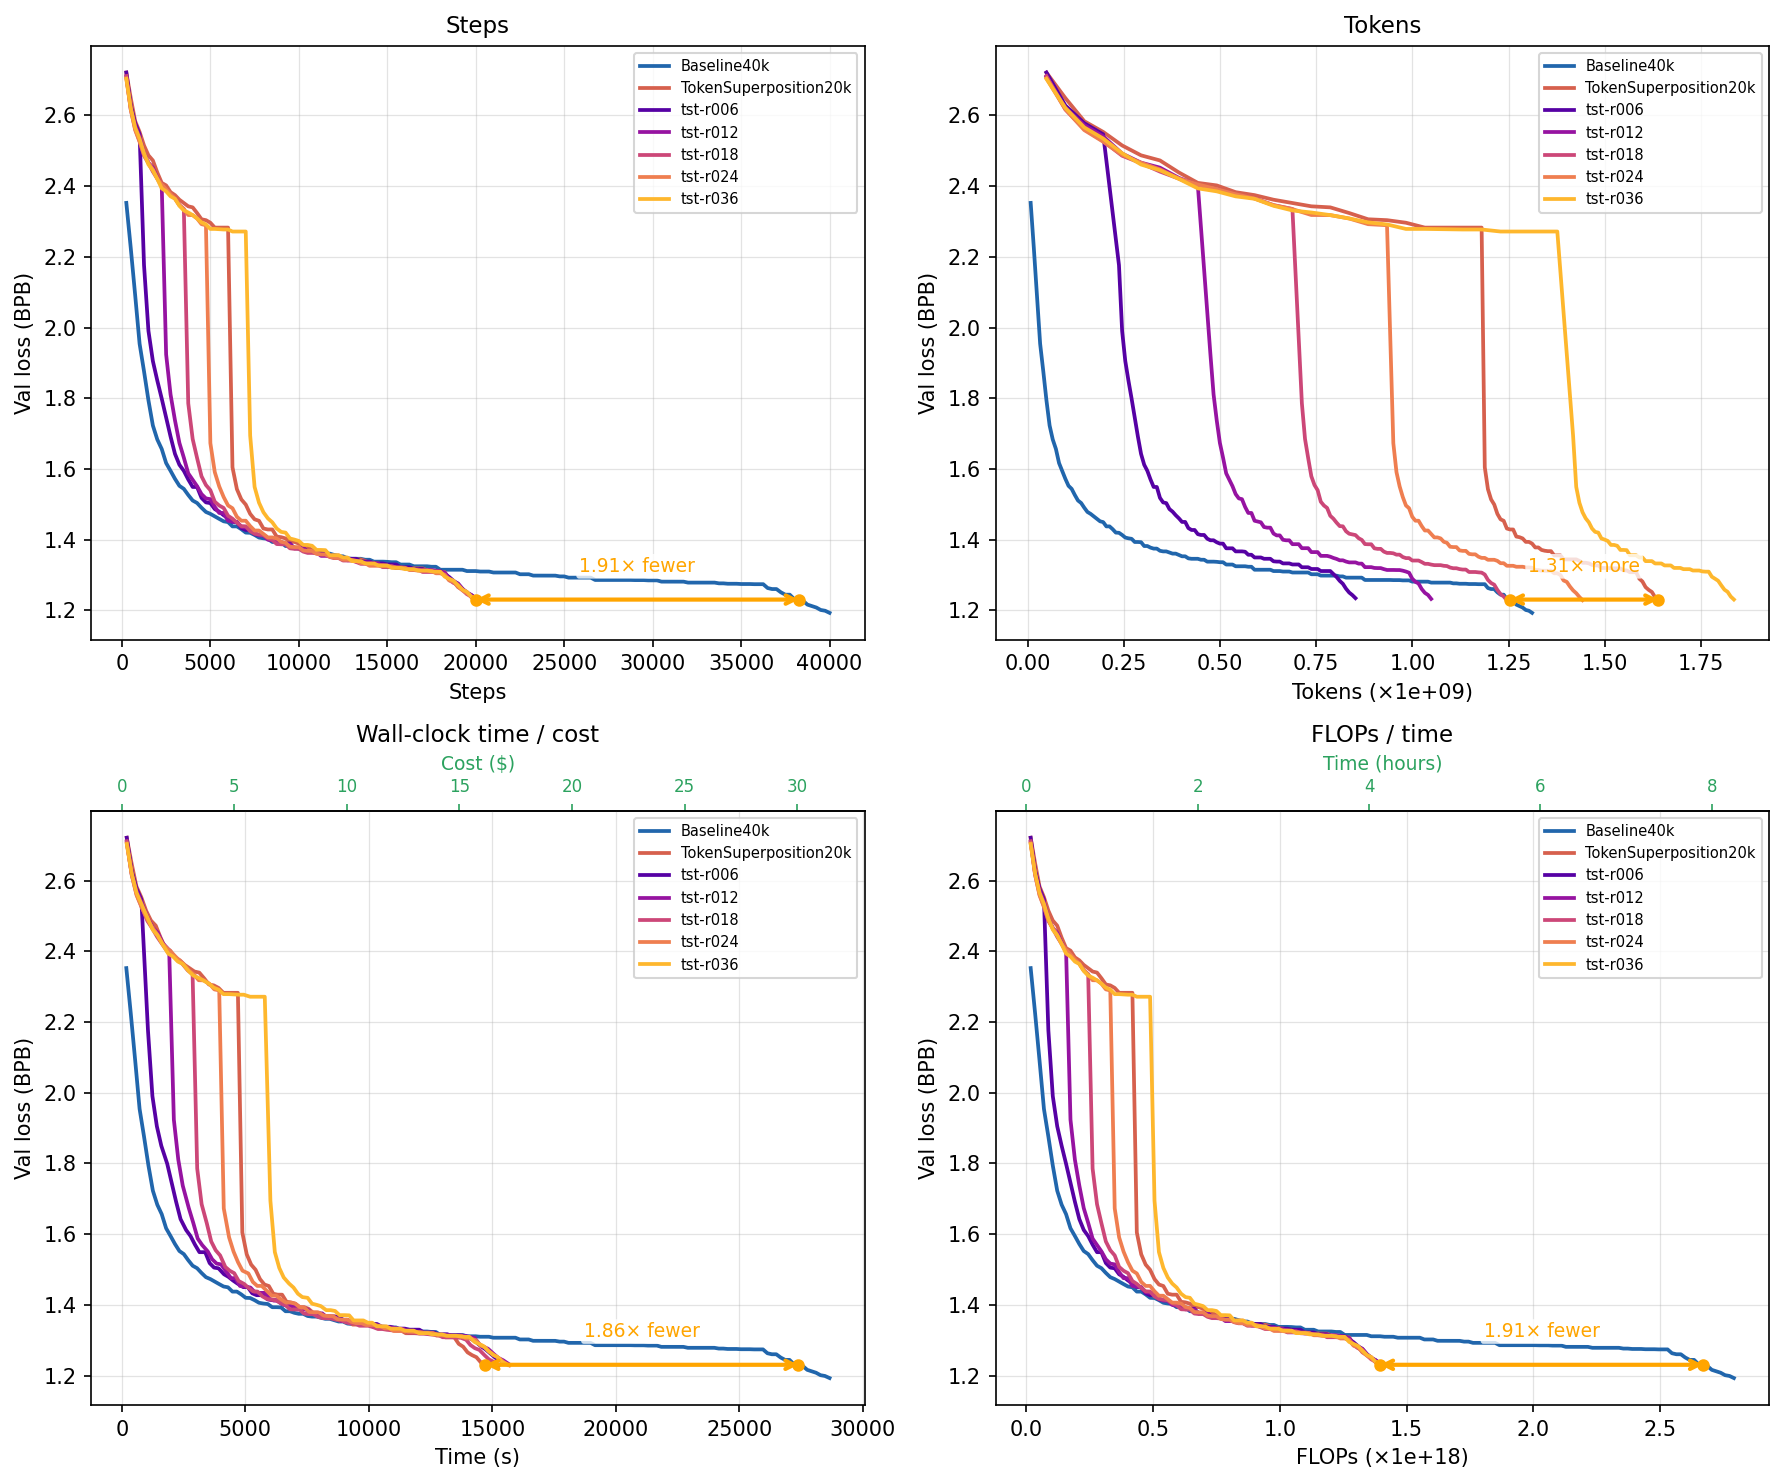
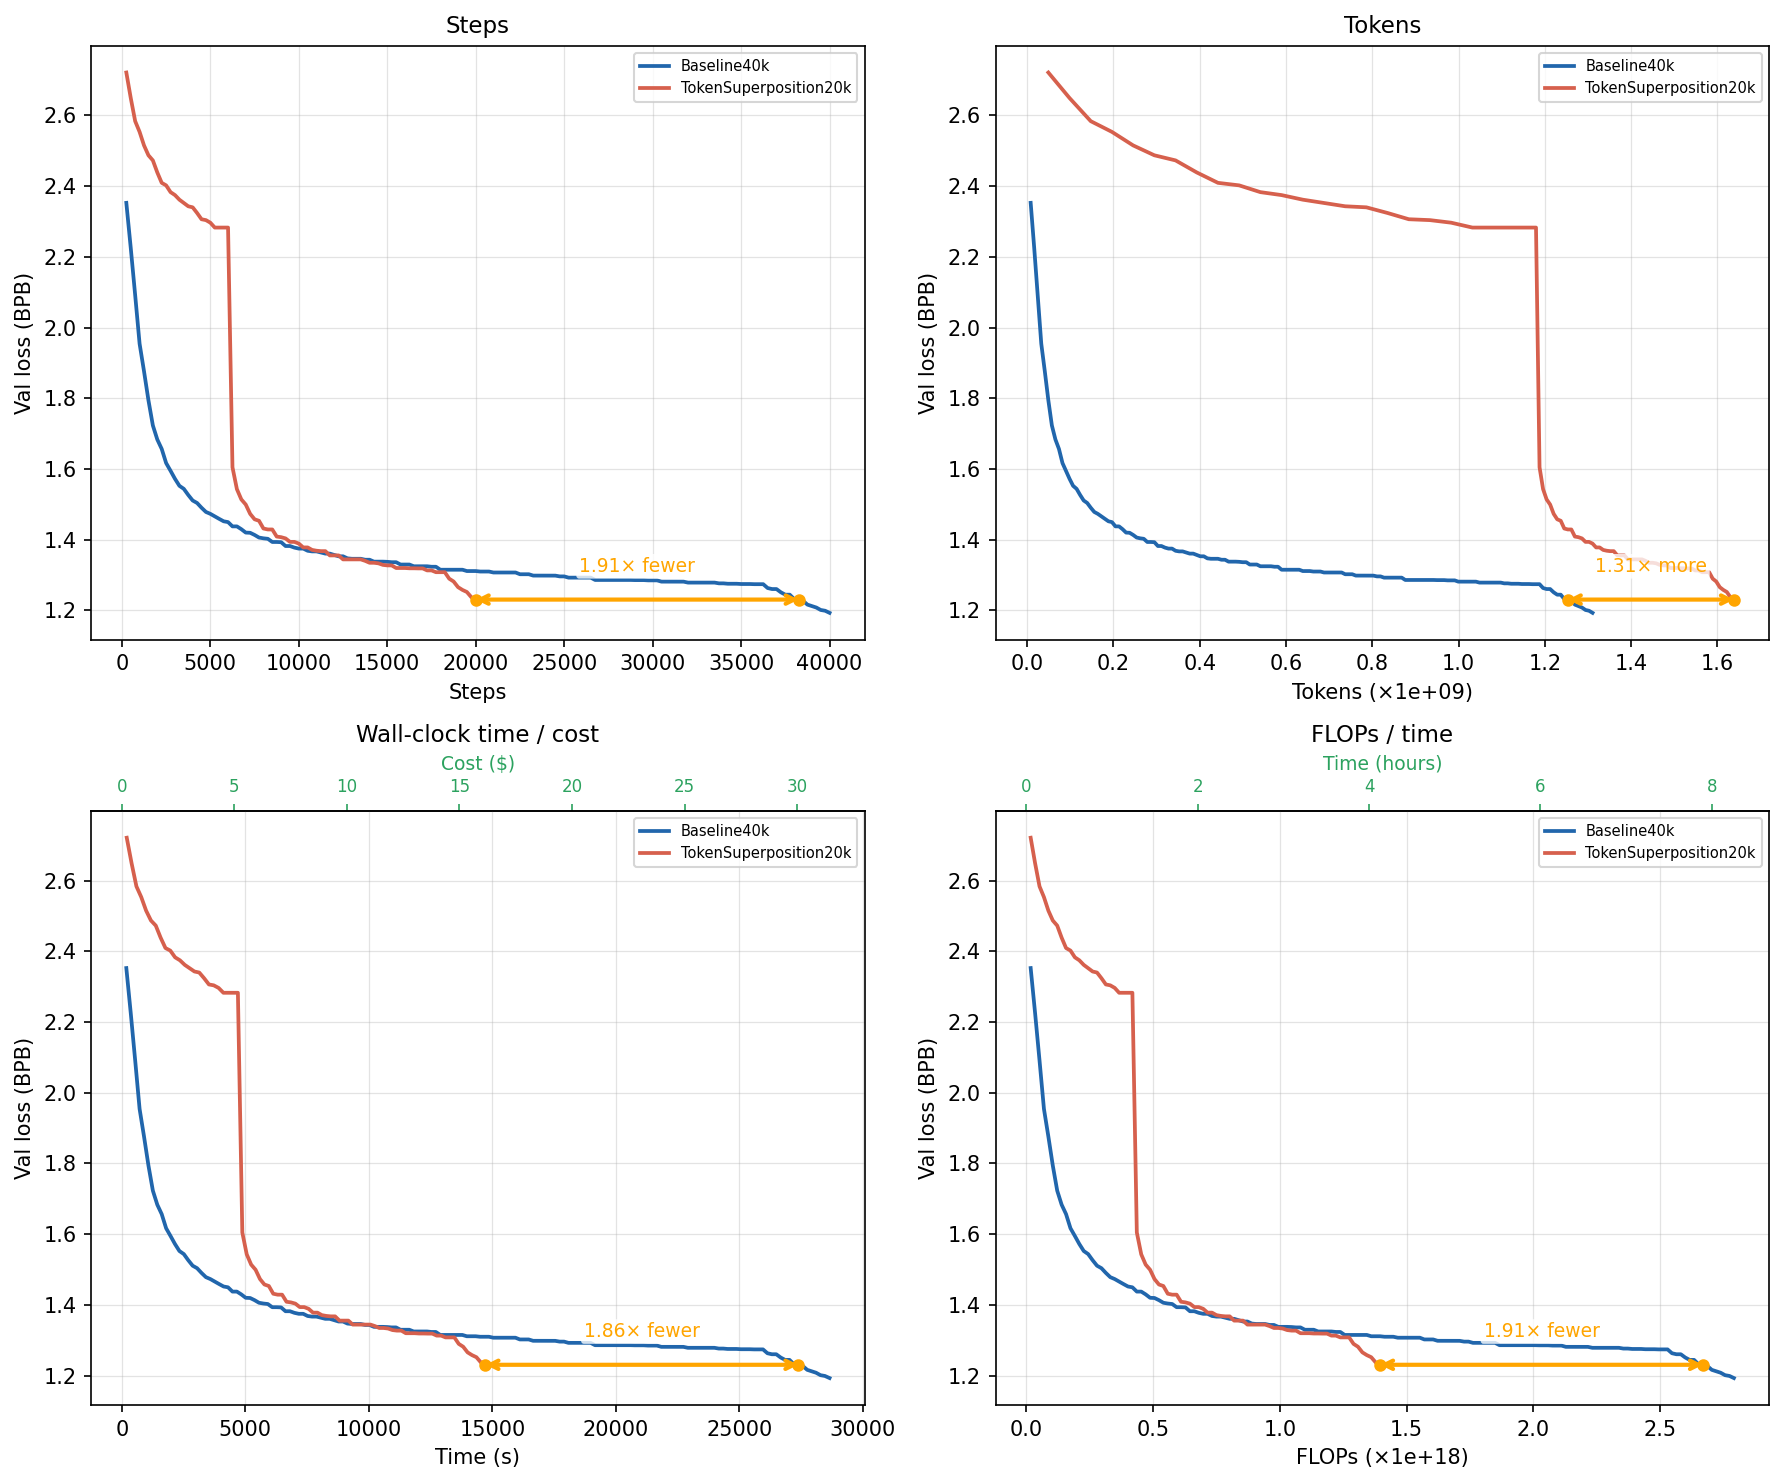
Restructure Section 3 figures: val isoloss as Figure 2, variant comparison as Figure 3
- Replace Figure 2 (train isoloss) with 2x2 val loss isoloss showing 1.91x speedup,
  key runs only (Baseline40k + TokenSuperposition20k)
- Add Figure 3: val loss isoloss for all variants without speedup arrows, for
  comparing phase-ratio sweep runs
- Add end-of-section paragraph validating the half-compute cost claim from the
  original paper
- Add Figure 1 back-reference in Section 4.2 (schedule-matched baseline)
- Update isoloss_plots.py to support show_arrows parameter and key-runs-only variant

diff --git a/paper/reproduction_paper.tex b/paper/reproduction_paper.tex
@@ -241,32 +241,31 @@ step count on equal hardware.
 
 \subsection{Isoloss Curves}
 
-Figures~\ref{fig:isoloss-train} and~\ref{fig:isoloss-val} show the isoloss
-curves for both runs.
+Figure~\ref{fig:isoloss-val} shows the isoloss curves for the two key runs.
 Each curve plots the best (running-minimum) loss achieved up to each resource
 level, so for any target loss value the horizontal gap between the two curves
 gives the resource saving.
 
 \begin{figure}[h]
     \centering
-    \includegraphics[width=\linewidth]{../assets/isoloss_train.png}
-    \caption{Isoloss curves for \textbf{training loss}. X-axes: gradient steps,
-    data tokens processed, wall-clock seconds, and total FLOPs. Y-axis: running
-    minimum training loss (nats). The red curve (TokenSuperposition20k) initially
-    trains more slowly due to the superposition phase, then recovers sharply and
-    matches the baseline's training loss efficiency in the final standard-AR phase.}
-    \label{fig:isoloss-train}
+    \includegraphics[width=\linewidth]{../assets/isoloss_val_notitle.png}
+    \caption{Isoloss curves for \textbf{validation loss} (BPB). X-axes: gradient
+    steps, data tokens processed, wall-clock seconds, and total FLOPs. Y-axis:
+    running minimum validation BPB. The yellow arrow (steps panel) marks the
+    $1.91\times$ step saving: the baseline requires $38{,}250$ steps to match
+    TST's final validation loss of $3.41$ nats.}
+    \label{fig:isoloss-val}
 \end{figure}
 
 \begin{figure}[h]
     \centering
-    \includegraphics[width=\linewidth]{../assets/isoloss_val.png}
-    \caption{Isoloss curves for \textbf{validation cross-entropy}. Same axes as
-    Figure~\ref{fig:isoloss-train}. The baseline (blue) is consistently more
-    efficient per step for the first $\sim$20{,}000 steps, but the TST run's
-    recovery phase produces a rapid improvement, and the TST run's final validation
-    CE of $3.41$ nats requires $1.91\times$ more baseline steps to match.}
-    \label{fig:isoloss-val}
+    \includegraphics[width=\linewidth]{../assets/isoloss_val_noarrows.png}
+    \caption{Isoloss curves for validation loss (BPB) for all trained variants:
+    Baseline40k (blue), TokenSuperposition20k ($r{=}0.30$, red), and the five
+    phase-ratio sweep variants ($r \in \{0.06, 0.12, 0.18, 0.24, 0.36\}$, plasma
+    gradient). All TST variants converge to similar final loss, with no meaningful
+    trend across the range of superposition phase lengths.}
+    \label{fig:isoloss-variants}
 \end{figure}
 
 The step-axis panel of Figure~\ref{fig:isoloss-val} clearly shows the characteristic
@@ -276,6 +275,9 @@ recovery once standard training resumes.
 By the end of the TST run's 20{,}000 steps, the baseline requires a further
 $\sim$18{,}000 steps --- nearly doubling its compute budget --- to reach the same
 validation loss.
+
+This validates the claim in \citet{peng2026efficient} that ``the same loss can be
+achieved at around half the computational cost''.
 
 \section{Challenging the Efficiency Claim}
 
@@ -341,6 +343,9 @@ To isolate the contribution of the superposition objective from this scheduling
 confound, we trained a \emph{schedule-matched baseline}: standard autoregressive
 training for 20{,}000 steps with WSD decay at step 18{,}000 — equal total FLOPs to
 TST20k, identical decay timing, but no bag training whatsoever.
+As Figure~\ref{fig:front-page} shows, the validation loss curve of the
+schedule-matched baseline is nearly indistinguishable from that of Token Superposition
+throughout training.
 Results are in Table~\ref{tab:schedule}.
 
 \begin{table}[h]

diff --git a/scripts/isoloss_plots.py b/scripts/isoloss_plots.py
@@ -227,6 +227,7 @@ def _add_iso_arrow(ax, data: dict, loss_type: str, loss_col: str,
 
 def make_figure(loss_type: str, loss_col: str, y_label: str, data: dict,
                 show_title: bool = True,
+                show_arrows: bool = True,
                 flops_per_second: float = None) -> plt.Figure:
     fig, axes = plt.subplots(2, 2, figsize=(12, 10))
     if show_title:
@@ -251,7 +252,8 @@ def make_figure(loss_type: str, loss_col: str, y_label: str, data: dict,
         ax.legend(fontsize=7)
 
         # Arrow drawn before secondary axis (uses ylim set by plotted data)
-        _add_iso_arrow(ax, data, loss_type, loss_col, x_col, scale)
+        if show_arrows:
+            _add_iso_arrow(ax, data, loss_type, loss_col, x_col, scale)
 
         if secondary == "cost":
             _add_cost_axis(ax)
@@ -282,12 +284,20 @@ def main():
     plt.close(fig)
     print("  → isoloss_val.png")
 
-    print("Building val BPB figure (no title, for paper) …")
-    fig = make_figure("val", "val/bpb", "Val loss (BPB)", data,
+    print("Building val BPB figure (no title, key runs only, for paper) …")
+    ref_data = {k: data[k] for k in REFERENCE_RUNS}
+    fig = make_figure("val", "val/bpb", "Val loss (BPB)", ref_data,
                       show_title=False, flops_per_second=fps)
     fig.savefig(f"{OUTPUT_DIR}/isoloss_val_notitle.png", dpi=150, bbox_inches="tight")
     plt.close(fig)
     print("  → isoloss_val_notitle.png")
+
+    print("Building val BPB figure (no arrows, all variants, for paper) …")
+    fig = make_figure("val", "val/bpb", "Val loss (BPB)", data,
+                      show_title=False, show_arrows=False, flops_per_second=fps)
+    fig.savefig(f"{OUTPUT_DIR}/isoloss_val_noarrows.png", dpi=150, bbox_inches="tight")
+    plt.close(fig)
+    print("  → isoloss_val_noarrows.png")
 
     print("Done.")
 